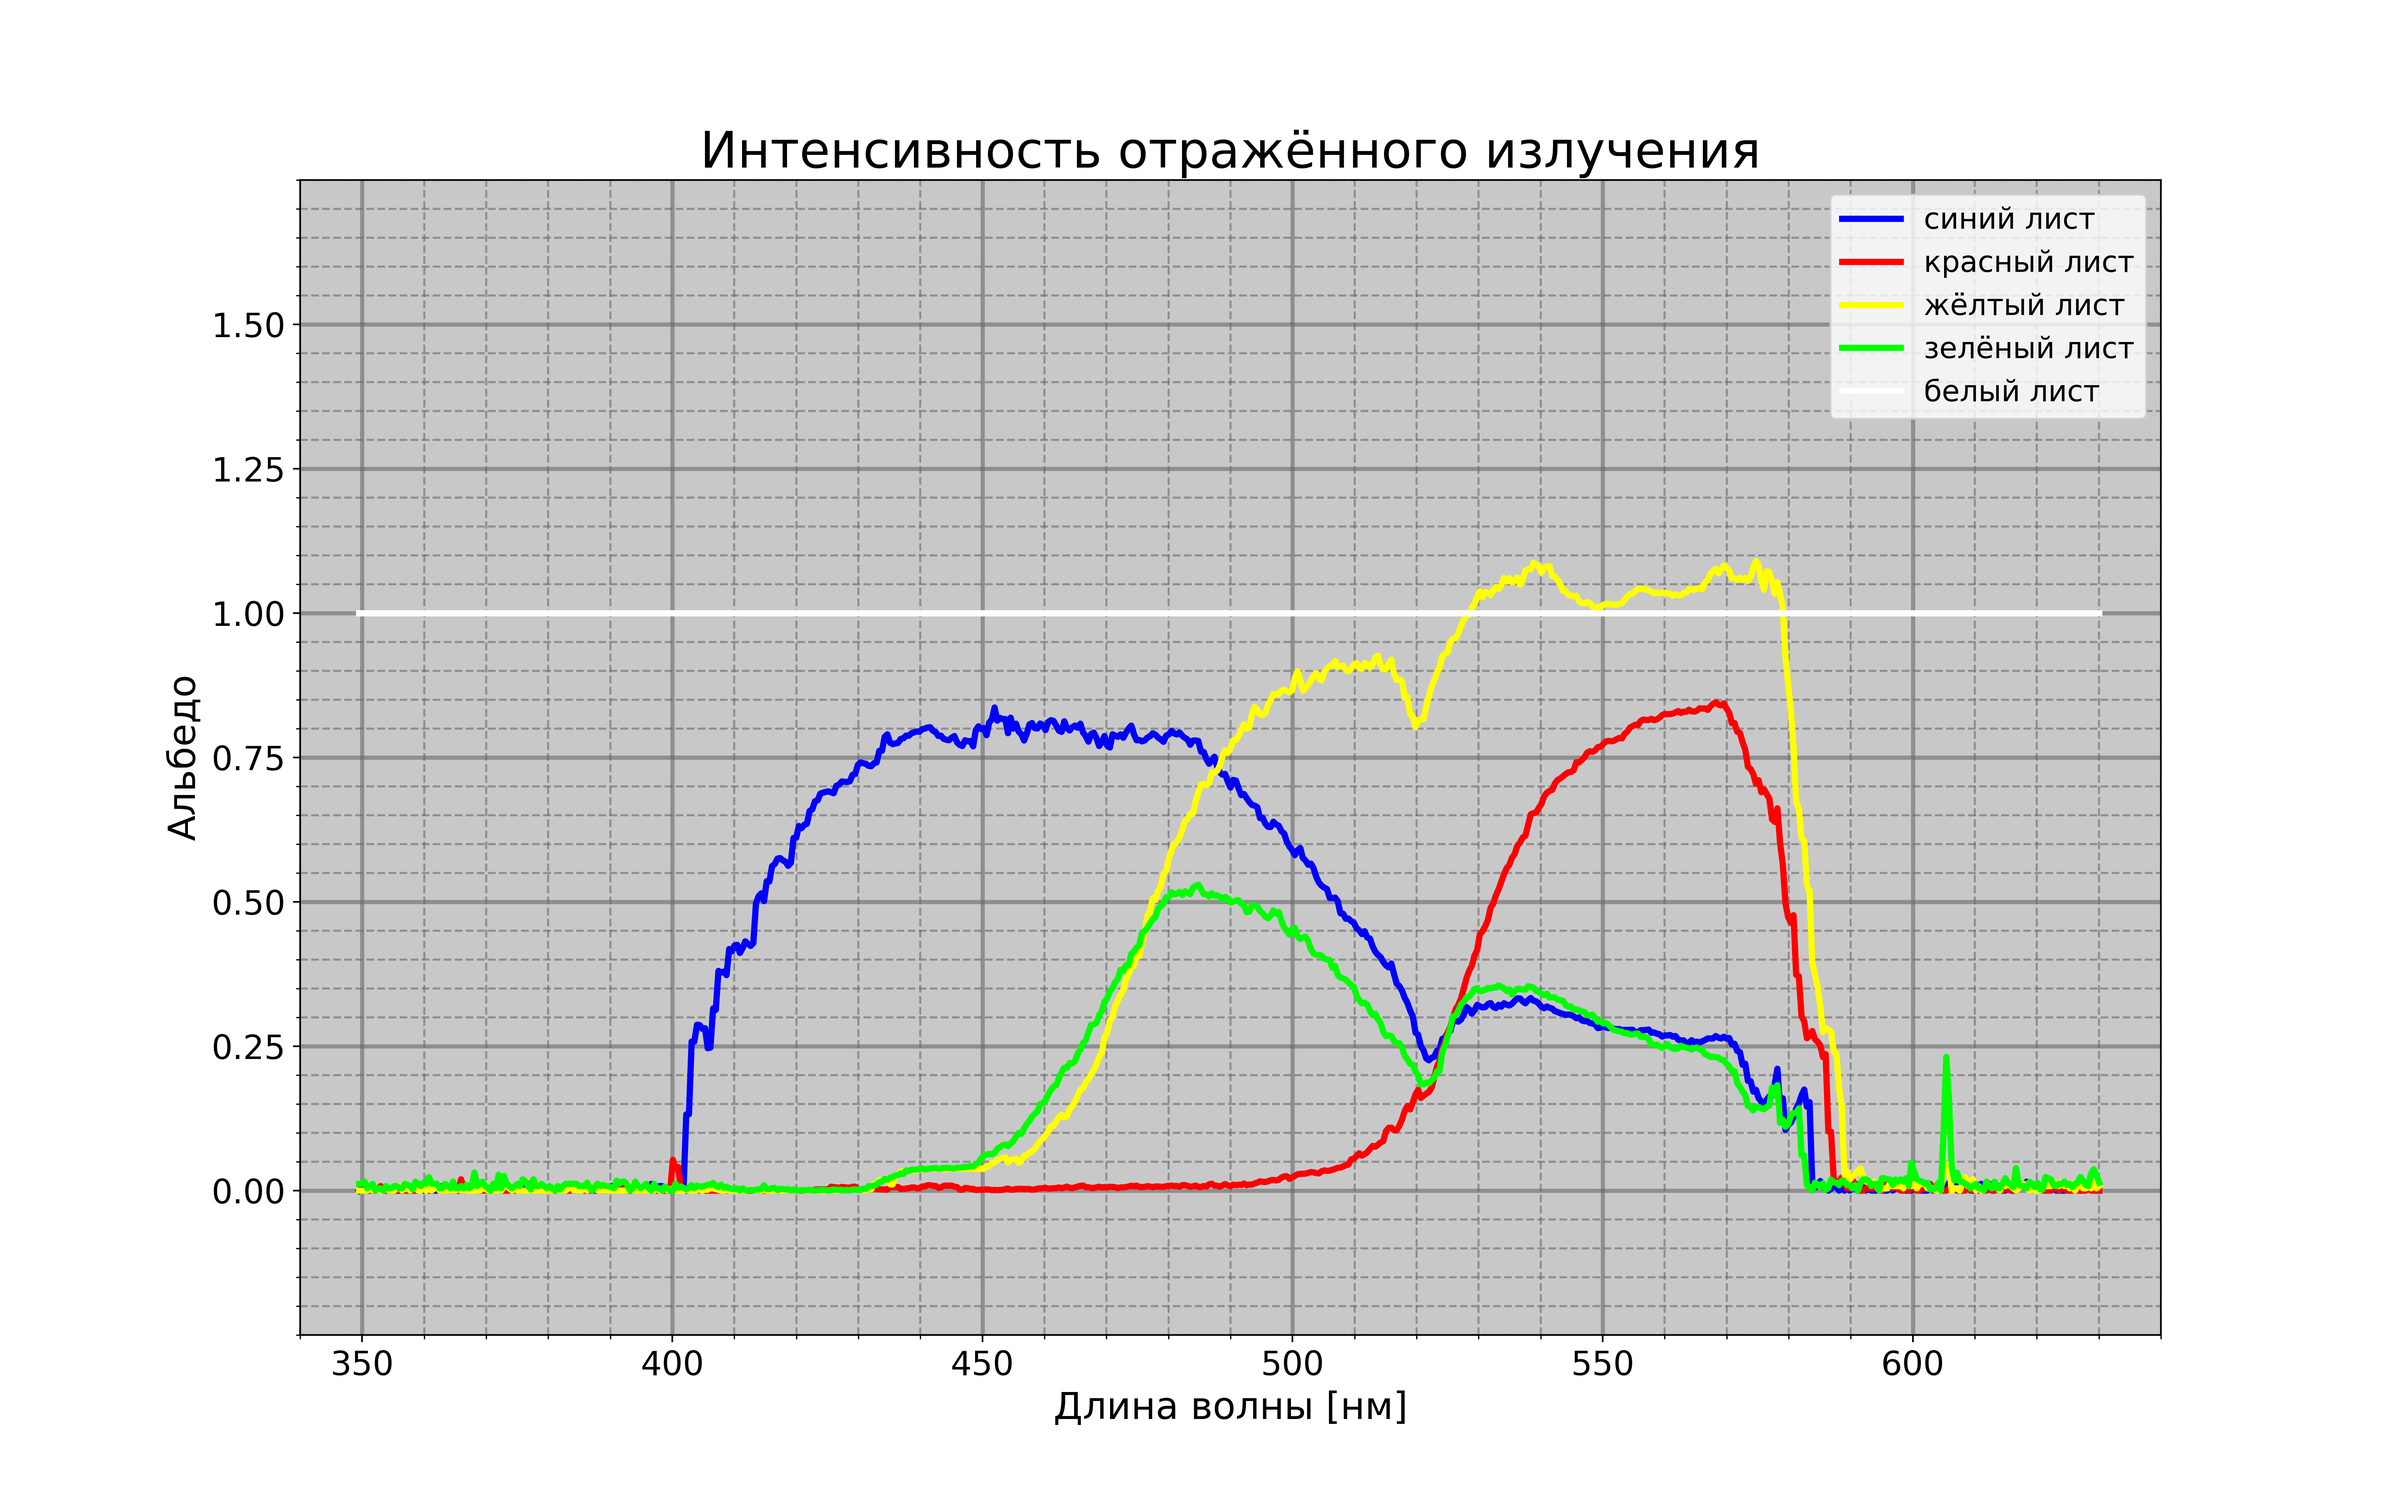
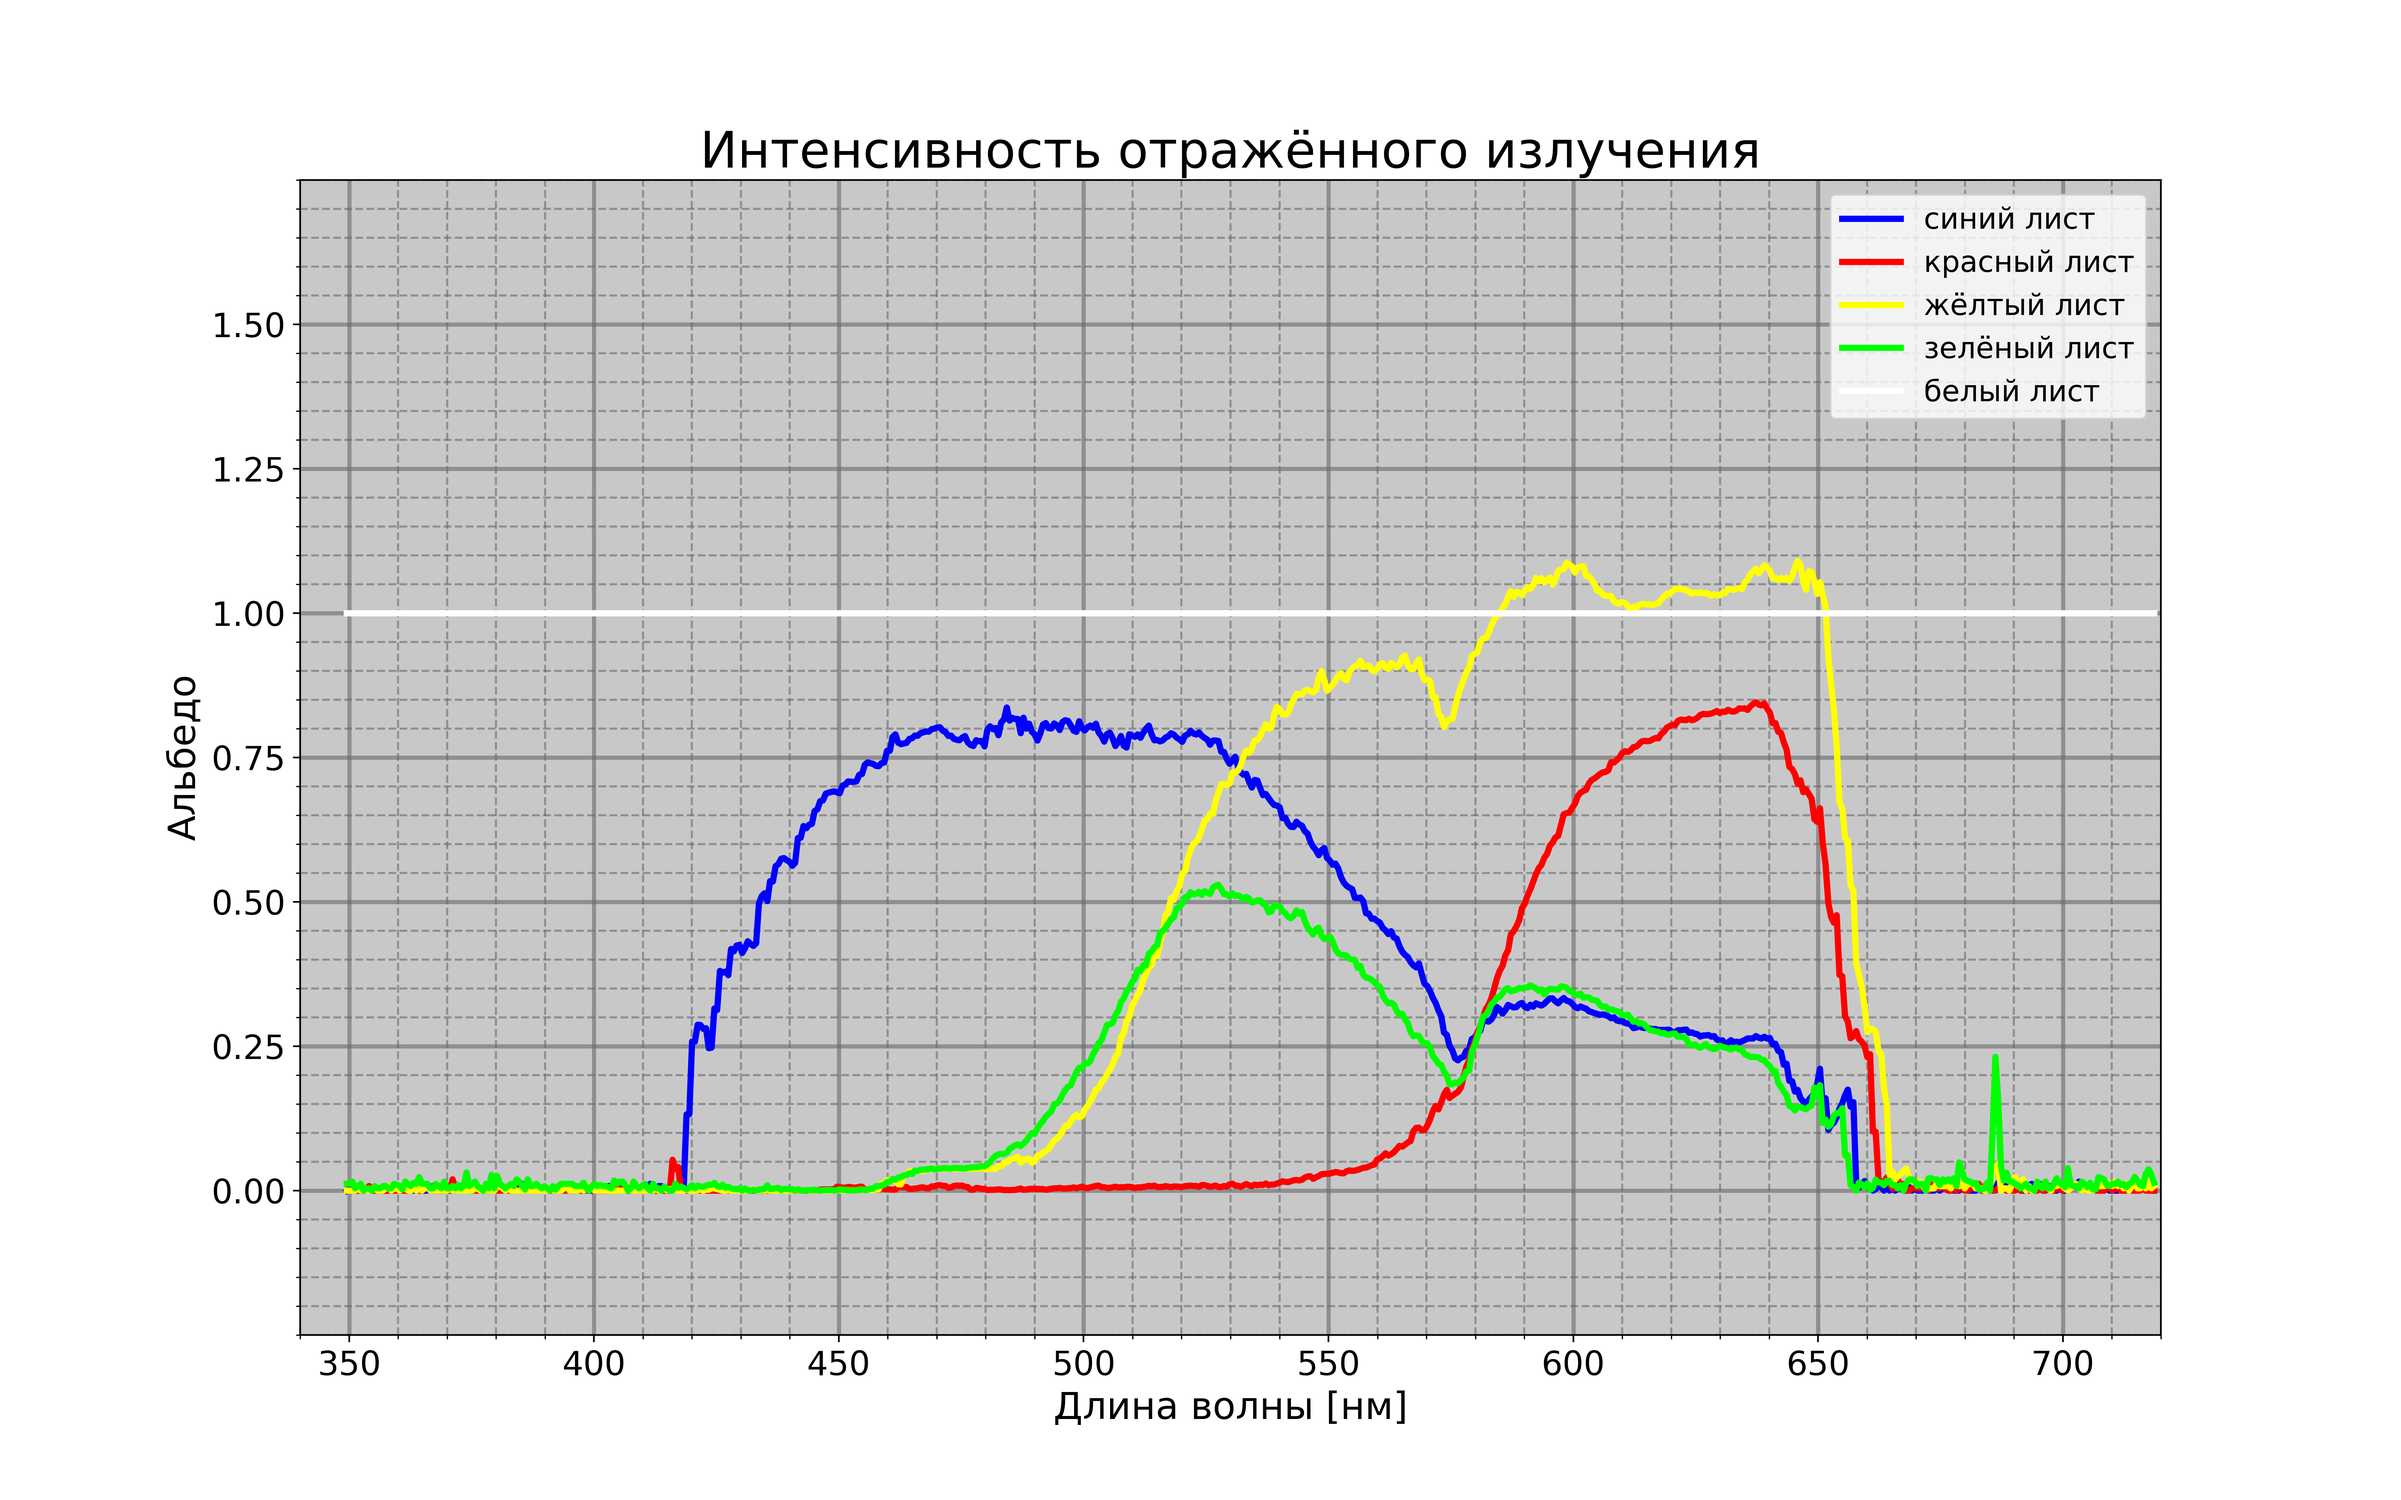
processing done part 2

diff --git a/scripts/lightProcessing.py b/scripts/lightProcessing.py
@@ -19,8 +19,9 @@ redPike = np.argmax(calibrationArray)
 refRedPike = 610.0
 refBluePike = 490.0
 length = (650 * (refRedPike - refBluePike))/(redPike - bluePike)
-maxLength = (bluePike * length)/650 + refBluePike
-minLength = refBluePike - (bluePike * length)/650
+maxLength = (refRedPike * (redPike - bluePike) + (650 - redPike) * (refRedPike - refBluePike))/(redPike - bluePike)
+minLength = maxLength - length
+print(minLength, maxLength)
 maxX = math.ceil(maxLength / 20.0) * 20
 minX = math.floor(minLength / 20.0) * 20
 maxIntensity = max(np.amax(whiteArray), np.amax(blueArray), np.amax(redArray), np.amax(yellowArray), np.amax(greenArray))
